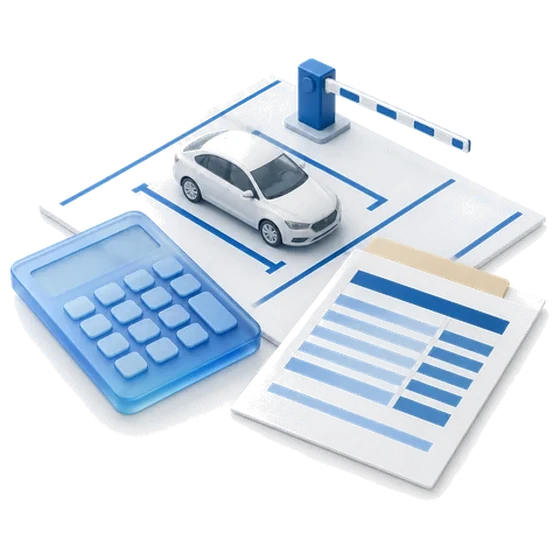
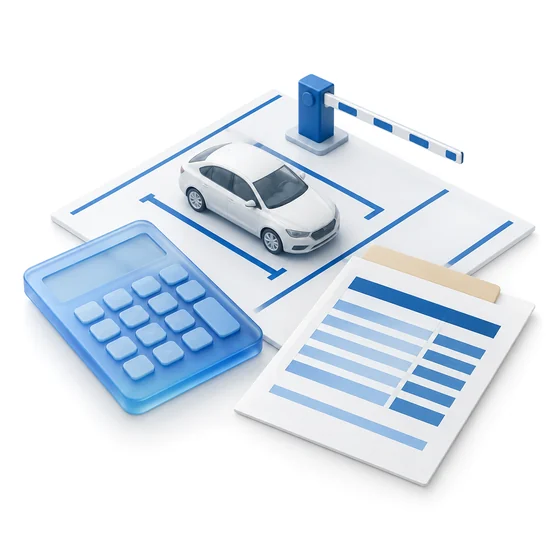
Правка №257: иллюстрации без вырезки фона — растворяются в плашке
Исходники из Figma на белом фоне, на сайте mix-blend-mode: multiply;
шаги на своём тёмном фоне с мягко гаснущими краями.

Claude-Session: https://claude.ai/code/session_011Z1uAdaimqcnBTeGgHzZVH

diff --git a/docs/правки-2026-10-28.md b/docs/правки-2026-10-28.md
@@ -466,3 +466,4 @@
 | 254 | Весь сайт, типографика | (по скриншоту) «для ИП и / ООО» — висел союз | склейка коротких слов цепочкой («ИП и ООО» не рвётся) |
 | 255 | 3D-иллюстрации (кейсы, ситуации, шаги) | (по скриншоту) контур вырезан плохо — белые листы просвечивали | вырез переделан: белое внутри предметов плотное, прозрачен только фон снаружи |
 | 256 | Контакты | Блок контактов не нужен | список (почта, часы, регион, формат) снят; кнопка над формой тоже — форма сразу под первым экраном |
+| 257 | 3D-иллюстрации везде (ситуации, шаги, кейсы, последовательность упр. учёта) | Вырезка фона выглядит отвратительно — может, не вырезать, а влить картинку в фон карточки | вырезку отменил: исходники из Figma на белом фоне растворяются в плашке через `mix-blend-mode: multiply`, шаги — на своём тёмном фоне (почти цвет плашки) с мягко гаснущими краями. Узлы Figma: case-fin 12:6, case-shtraf 12:5, case-46 12:7, seq 12:2–12:4, sit-1 5:2, sit-2 6:2, sit-3 5:3, sit-4…6 8:2–8:4, step-1…5 9:2–9:6. Правило — `docs/иллюстрации-стиль.md`. Заменяет №255 |

diff --git a/docs/иллюстрации-стиль.md b/docs/иллюстрации-стиль.md
@@ -5,9 +5,13 @@
 Эталон — картинки 1–3 «Типичных ситуаций» (`public/images/ill/sit-1..3.webp`). Любая новая
 картинка делается **только по шаблону ниже**, меняется лишь блок «СЮЖЕТ».
 
-Генерация: Figma MCP `generate_image`, модель `gpt-image-2.5-flare`, 1024×1024. Фон
-вырезается скриптом (белое от краёв → прозрачное, тень полупрозрачная), результат —
-`public/images/ill/<имя>.webp` 640×640.
+Генерация: Figma MCP `generate_image`, модель `gpt-image-2.5-flare`, 1024×1024.
+**Фон НЕ вырезаем** (№257 — вырезка давала просвечивающие листы и ореолы). Картинка на
+чистом белом фоне уменьшается до 560×560, белый подтягивается до 255 (×255/252),
+сохраняется webp без прозрачности; на сайте у `<img>` стоит `mix-blend-mode: multiply` —
+белое растворяется в цвете плашки, тени живые. Для тёмных плашек (`--c-night`) картинка
+генерируется сразу на фоне `#16253b` и ставится как есть, края гасятся маской
+`radial-gradient` (см. `.proc__art`). Исходники — в файле Figma выше (узлы — журнал, №257).
 
 ## Правила стиля
 
